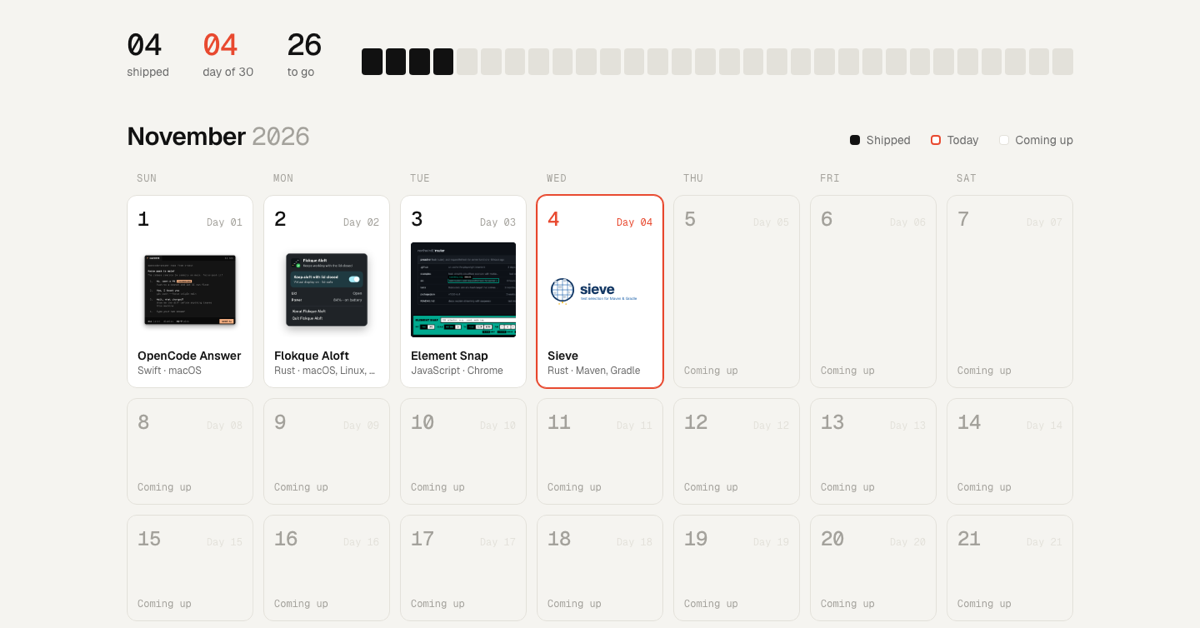
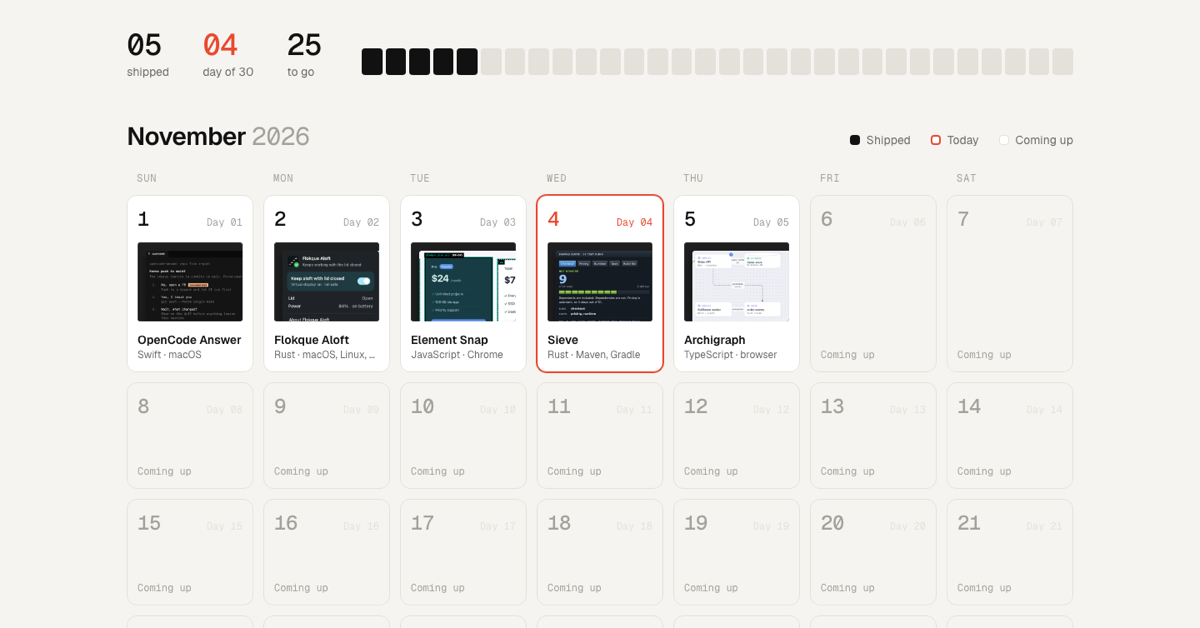
Dark mode with a spherical theme transition; branded thumbnails for every day

diff --git a/index.html b/index.html
@@ -12,6 +12,12 @@
   <meta property="og:image" content="https://preacherxp.github.io/30-days-of-tools/assets/og.png">
   <meta name="twitter:card" content="summary_large_image">
   <link rel="icon" href="favicon.svg" type="image/svg+xml">
+  <script>
+    try {
+      document.documentElement.dataset.theme = localStorage.getItem("theme")
+        || (matchMedia("(prefers-color-scheme: dark)").matches ? "dark" : "light");
+    } catch { document.documentElement.dataset.theme = "light"; }
+  </script>
   <link rel="preconnect" href="https://fonts.googleapis.com">
   <link rel="preconnect" href="https://fonts.gstatic.com" crossorigin>
   <link href="https://fonts.googleapis.com/css2?family=Geist:wght@400;500;600;700&family=Geist+Mono:wght@400;500;600&display=swap" rel="stylesheet">
@@ -24,8 +30,24 @@
       --faint: #a3a19b;
       --line: #e3e1da;
       --accent: #e8492f;
+      --hero-from: #000000;
+      --hero-to: #666666;
+      --lift: rgba(17, 17, 17, 0.25);
+      color-scheme: light;
       --ease: cubic-bezier(0.22, 1, 0.36, 1);
       --mono: "Geist Mono", ui-monospace, monospace;
+    }
+    [data-theme="dark"] {
+      --bg: #181818;
+      --card: #1f1f1f;
+      --ink: #f5f4f0;
+      --muted: #9b9b9b;
+      --faint: #6b6b6b;
+      --line: #313131;
+      --hero-from: #ffffff;
+      --hero-to: #9b9b9b;
+      --lift: rgba(0, 0, 0, 0.6);
+      color-scheme: dark;
     }
     * { box-sizing: border-box; }
     html { -webkit-text-size-adjust: 100%; }
@@ -65,12 +87,26 @@
     .gh:hover { border-color: var(--faint); transform: translateY(-1px); }
     .gh:active { transform: scale(0.98); }
     .gh svg { width: 16px; height: 16px; }
+    .actions { display: flex; gap: 8px; }
+    button.gh { font: inherit; font-weight: 600; color: inherit; cursor: pointer; }
+    .theme { position: relative; width: 38px; justify-content: center; padding: 8px; }
+    .theme svg { position: absolute; transition: transform 500ms var(--ease), opacity 300ms var(--ease); }
+    .theme .i-sun, [data-theme="dark"] .theme .i-moon { opacity: 0; transform: rotate(-90deg) scale(0.5); }
+    [data-theme="dark"] .theme .i-sun { opacity: 1; transform: none; }
+
+    /* Theme switch: the new theme grows out of the button as a sphere while the old page sinks back. */
+    ::view-transition-old(root), ::view-transition-new(root) {
+      animation: none; mix-blend-mode: normal;
+      transform-origin: var(--vx, 50%) var(--vy, 50%);
+    }
+    ::view-transition-old(root) { z-index: 1; }
+    ::view-transition-new(root) { z-index: 2; }
 
     .hero { padding: 64px 0 48px; }
     .hero h1 {
       margin: 0; max-width: 680px;
       font-size: 72px; line-height: 1; font-weight: 700; letter-spacing: -0.03em;
-      background: linear-gradient(90deg, #000000, #666666);
+      background: linear-gradient(90deg, var(--hero-from), var(--hero-to));
       -webkit-background-clip: text; background-clip: text; color: transparent;
       text-wrap: balance;
     }
@@ -141,7 +177,6 @@
     .date { font-size: 24px; line-height: 32px; font-weight: 500; letter-spacing: -0.02em; }
     .day { font-size: 12px; line-height: 16px; color: var(--faint); }
 
-    .shipped { min-height: 232px; }
     .upcoming { background: transparent; }
     .upcoming .date { color: var(--faint); }
     .upcoming .day { color: var(--line); }
@@ -159,11 +194,9 @@
       border-radius: 50%; background: var(--accent); vertical-align: 1px;
     }
 
-    .thumb { position: relative; flex: 1; min-height: 112px; margin: 0 12px; border-radius: 4px; overflow: hidden; background: #ffffff; }
-    .thumb img { position: absolute; inset: 0; width: 100%; height: 100%; transition: transform 500ms var(--ease); }
-    .thumb.contain img { object-fit: contain; }
-    .thumb.cover { background: #0d1117; }
-    .thumb.cover img { object-fit: cover; }
+    .thumb { position: relative; flex: none; aspect-ratio: 4 / 3; margin: 0 12px; border-radius: 4px; overflow: hidden; background: #1f1f1f; }
+    .thumb::after { content: ""; position: absolute; inset: 0; border-radius: inherit; box-shadow: inset 0 0 0 1px rgba(255, 255, 255, 0.08); pointer-events: none; }
+    .thumb img { position: absolute; inset: 0; width: 100%; height: 100%; object-fit: cover; transition: transform 500ms var(--ease); }
     .meta { padding: 12px; }
     .meta strong { display: block; font-size: 14px; line-height: 20px; font-weight: 600; }
     .meta span { display: block; font-size: 12px; line-height: 16px; color: var(--muted); white-space: nowrap; overflow: hidden; text-overflow: ellipsis; }
@@ -171,13 +204,13 @@
     .blurb {
       position: absolute; inset: auto 0 0 0; margin: 0;
       padding: 16px 12px 12px;
-      background: var(--ink); color: #ffffff;
+      background: var(--ink); color: var(--bg);
       font-size: 14px; line-height: 20px; text-wrap: pretty;
       transform: translateY(100%);
       transition: transform 500ms var(--ease);
     }
     .blurb::after { content: " ↗"; color: var(--accent); }
-    .shipped:hover, .shipped:focus-visible { border-color: var(--faint); box-shadow: 0 16px 32px -16px rgba(17, 17, 17, 0.25); }
+    .shipped:hover, .shipped:focus-visible { border-color: var(--faint); box-shadow: 0 16px 32px -16px var(--lift); }
     .shipped:hover .blurb, .shipped:focus-visible .blurb { transform: none; }
     .shipped:hover .thumb img { transform: scale(1.04); }
     .shipped:active { transform: scale(0.98); }
@@ -195,7 +228,6 @@
       .wrap { padding: 0 24px; }
       .hero h1 { font-size: 60px; }
       .stats { grid-template-columns: 1fr; }
-      .shipped { min-height: 200px; }
       .meta span { display: none; }
     }
     @media (max-width: 720px) {
@@ -215,7 +247,7 @@
       .upcoming .hint { margin: 0; padding: 8px 12px; }
       .shipped { display: grid; grid-template-columns: 112px 1fr; grid-template-rows: auto 1fr; }
       .shipped .cell-head { grid-column: 1 / -1; }
-      .shipped .thumb { margin: 0 0 12px 12px; min-height: 84px; }
+      .shipped .thumb { margin: 0 0 12px 12px; align-self: start; }
       .shipped .meta { padding: 0 12px 12px; }
       .meta span { display: block; white-space: normal; }
       .blurb { position: static; transform: none; background: none; color: var(--muted); padding: 4px 0 0; }
@@ -234,10 +266,13 @@
   <div class="wrap">
     <header class="top">
       <a class="handle" href="https://github.com/preacherxp"><b>preacherxp</b> / 30 days of tools</a>
+      <div class="actions">
+      <button class="gh theme" id="theme" type="button" aria-label="Switch to dark mode" aria-pressed="false"><svg class="i-sun" viewBox="0 0 24 24" fill="none" stroke="currentColor" stroke-width="2" stroke-linecap="round" aria-hidden="true"><circle cx="12" cy="12" r="4"/><path d="M12 2v2M12 20v2M4.93 4.93l1.41 1.41M17.66 17.66l1.41 1.41M2 12h2M20 12h2M4.93 19.07l1.41-1.41M17.66 6.34l1.41-1.41"/></svg><svg class="i-moon" viewBox="0 0 24 24" fill="none" stroke="currentColor" stroke-width="2" stroke-linecap="round" stroke-linejoin="round" aria-hidden="true"><path d="M20 14.5A8 8 0 0 1 9.5 4a8 8 0 1 0 10.5 10.5Z"/></svg></button>
       <a class="gh" href="https://github.com/preacherxp/30-days-of-tools">
         <svg viewBox="0 0 256 256" fill="currentColor" aria-hidden="true"><path d="M208.31 75.68A59.78 59.78 0 0 0 202.93 28a8 8 0 0 0-6.93-4a59.75 59.75 0 0 0-48 24h-24a59.75 59.75 0 0 0-48-24a8 8 0 0 0-6.93 4a59.78 59.78 0 0 0-5.38 47.68A58.14 58.14 0 0 0 56 104v8a56.06 56.06 0 0 0 48.44 55.47A39.8 39.8 0 0 0 96 192v8H72a24 24 0 0 1-24-24a40 40 0 0 0-40-40a8 8 0 0 0 0 16a24 24 0 0 1 24 24a40 40 0 0 0 40 40h24v16a8 8 0 0 0 16 0v-40a24 24 0 0 1 48 0v40a8 8 0 0 0 16 0v-40a39.8 39.8 0 0 0-8.44-24.53A56.06 56.06 0 0 0 216 112v-8a58.14 58.14 0 0 0-7.69-28.32ZM200 112a40 40 0 0 1-40 40h-48a40 40 0 0 1-40-40v-8a41.74 41.74 0 0 1 6.9-22.48a8 8 0 0 0 1.1-7.69a43.81 43.81 0 0 1 .79-33.58a43.88 43.88 0 0 1 32.32 20.06a8 8 0 0 0 6.71 3.69h32.35a8 8 0 0 0 6.74-3.69a43.87 43.87 0 0 1 32.32-20.06a43.81 43.81 0 0 1 .77 33.58a8.09 8.09 0 0 0 1 7.65a41.72 41.72 0 0 1 7 22.52Z"/></svg>
         Source
       </a>
+      </div>
     </header>
 
     <main>
@@ -316,7 +351,7 @@
       let cell;
       if (tool) {
         cell = el("a", "cell shipped", head +
-          `<div class="thumb ${tool.fit}"><img src="${tool.image}" alt="" loading="lazy"${tool.position ? ` style="object-position: ${tool.position}"` : ""}></div>` +
+          `<div class="thumb"><img src="${tool.image}" alt="" loading="lazy"></div>` +
           `<div class="meta"><strong>${tool.name}</strong><span>${tool.stack}</span><p class="blurb">${tool.blurb}</p></div>`);
         cell.href = `https://github.com/${tool.repo}`;
         cell.setAttribute("aria-label", `Day ${d}, ${label}: ${tool.name}. ${tool.blurb}`);
@@ -347,6 +382,41 @@
     document.getElementById("n-shipped").textContent = pad(shipped.size);
     document.getElementById("n-day").textContent = pad(dayOf);
     document.getElementById("n-left").textContent = pad(DAYS - shipped.size);
+
+    const root = document.documentElement;
+    const toggle = document.getElementById("theme");
+    const still = matchMedia("(prefers-reduced-motion: reduce)");
+    const label = () => {
+      const dark = root.dataset.theme === "dark";
+      toggle.setAttribute("aria-pressed", String(dark));
+      toggle.setAttribute("aria-label", dark ? "Switch to light mode" : "Switch to dark mode");
+    };
+    label();
+
+    toggle.addEventListener("click", () => {
+      const next = root.dataset.theme === "dark" ? "light" : "dark";
+      const swap = () => { root.dataset.theme = next; label(); };
+      try { localStorage.setItem("theme", next); } catch {}
+      if (!document.startViewTransition || still.matches) return swap();
+
+      const box = toggle.getBoundingClientRect();
+      const x = box.left + box.width / 2, y = box.top + box.height / 2;
+      const r = Math.hypot(Math.max(x, innerWidth - x), Math.max(y, innerHeight - y));
+      root.style.setProperty("--vx", `${x}px`);
+      root.style.setProperty("--vy", `${y}px`);
+
+      document.startViewTransition(swap).ready.then(() => {
+        const timing = { duration: 1000, easing: "cubic-bezier(0.7, 0, 0.2, 1)" }; // slow start so the sphere reads, then settles
+        root.animate({
+          clipPath: [`circle(0px at ${x}px ${y}px)`, `circle(${r}px at ${x}px ${y}px)`],
+          transform: ["scale(1.12)", "scale(1)"],
+        }, { ...timing, pseudoElement: "::view-transition-new(root)" });
+        root.animate({
+          transform: ["scale(1)", "scale(0.92)"],
+          filter: ["brightness(1)", "brightness(0.55)"],
+        }, { ...timing, pseudoElement: "::view-transition-old(root)" });
+      });
+    });
   </script>
 </body>
 </html>

diff --git a/tools.js b/tools.js
@@ -1,6 +1,5 @@
 // One entry per shipped day. Add the next tool here and push; the calendar fills itself in.
-// fit: "contain" for screenshots on a white backdrop, "cover" for full bleed images.
-// position: optional object-position for cover images, centred by default.
+// image: a 4:3 thumbnail made by thumbs/make.sh from an entry in thumbs/thumbs.json.
 window.TOOLS = [
   {
     day: 1,
@@ -8,8 +7,7 @@ window.TOOLS = [
     repo: "preacherxp/opencode-answer",
     blurb: "A macOS menu bar app for answering OpenCode's questions without switching to the terminal.",
     stack: "Swift · macOS",
-    image: "assets/opencode-answer.png",
-    fit: "contain",
+    image: "assets/thumbs/opencode-answer.png",
   },
   {
     day: 2,
@@ -17,8 +15,7 @@ window.TOOLS = [
     repo: "preacherxp/flokque-aloft",
     blurb: "Keeps your computer working with the lid closed, so agents and builds carry on in your bag.",
     stack: "Rust · macOS, Linux, Windows",
-    image: "assets/flokque-aloft.png",
-    fit: "contain",
+    image: "assets/thumbs/flokque-aloft.png",
   },
   {
     day: 3,
@@ -26,9 +23,7 @@ window.TOOLS = [
     repo: "preacherxp/element-snap",
     blurb: "A Chrome extension that saves any element on a web page as a pixel exact image.",
     stack: "JavaScript · Chrome",
-    image: "assets/element-snap.png",
-    fit: "cover",
-    position: "left center",
+    image: "assets/thumbs/element-snap.png",
   },
   {
     day: 4,
@@ -36,8 +31,7 @@ window.TOOLS = [
     repo: "preacherxp/sieve",
     blurb: "Runs only the JVM tests a change can affect. When unsure, it runs them all.",
     stack: "Rust · Maven, Gradle",
-    image: "assets/sieve.svg",
-    fit: "contain",
+    image: "assets/thumbs/sieve.png",
   },
   {
     day: 5,
@@ -45,7 +39,6 @@ window.TOOLS = [
     repo: "preacherxp/archigraph",
     blurb: "An architecture diagram editor that ships as one HTML file: draw, comment, send it, merge the copies.",
     stack: "TypeScript · browser",
-    image: "assets/archigraph.png",
-    fit: "cover",
+    image: "assets/thumbs/archigraph.png",
   },
 ];

diff --git a/404.html b/404.html
@@ -6,18 +6,26 @@
   <title>Page not found · 30 tools in 30 days</title>
   <link rel="icon" href="/30-days-of-tools/favicon.svg" type="image/svg+xml">
   <link href="https://fonts.googleapis.com/css2?family=Geist:wght@400;600;700&family=Geist+Mono:wght@500&display=swap" rel="stylesheet">
+  <script>
+    try {
+      document.documentElement.dataset.theme = localStorage.getItem("theme")
+        || (matchMedia("(prefers-color-scheme: dark)").matches ? "dark" : "light");
+    } catch {}
+  </script>
   <style>
+    :root { --bg: #f5f4f0; --ink: #111111; --muted: #6b6b6b; color-scheme: light; }
+    [data-theme="dark"] { --bg: #181818; --ink: #f5f4f0; --muted: #9b9b9b; color-scheme: dark; }
     body {
       margin: 0; min-height: 100vh; display: grid; place-items: center;
-      background: #f5f4f0; color: #111111; font: 400 16px/24px "Geist", system-ui, sans-serif;
+      background: var(--bg); color: var(--ink); font: 400 16px/24px "Geist", system-ui, sans-serif;
     }
     main { padding: 32px; text-align: center; }
     b { display: block; font-family: "Geist Mono", monospace; font-size: 72px; line-height: 1; font-weight: 500; color: #e8492f; }
     h1 { margin: 24px 0 8px; font-size: 24px; line-height: 32px; font-weight: 600; }
-    p { margin: 0 0 24px; color: #6b6b6b; }
+    p { margin: 0 0 24px; color: var(--muted); }
     a {
       display: inline-block; padding: 8px 12px; border-radius: 8px;
-      background: #111111; color: #ffffff; font-weight: 600; text-decoration: none;
+      background: var(--ink); color: var(--bg); font-weight: 600; text-decoration: none;
     }
     a:focus-visible { outline: 2px solid #e8492f; outline-offset: 2px; }
   </style>

diff --git a/thumbs/template.html b/thumbs/template.html
@@ -1,0 +1,40 @@
+<!doctype html>
+<!-- Calendar thumbnail, 800×600. Rendered by make.sh; the query string says which
+     image to frame and which part of it: ?src=src/x.png&x=80&y=80&w=1032 (source pixels).
+     The crop's top left corner lands on the frame's corner and is scaled so w fills the frame. -->
+<html>
+<head>
+  <meta charset="utf-8">
+  <style>
+    html, body { margin: 0; width: 800px; height: 600px; overflow: hidden; }
+    body {
+      position: relative;
+      background-color: #1f1f1f;
+      background-image: radial-gradient(#313131 1.5px, transparent 1.5px);
+      background-size: 24px 24px;
+      background-position: 12px 12px;
+    }
+    .frame {
+      position: absolute; left: 64px; top: 64px; width: 800px; height: 600px;
+      border-radius: 16px; overflow: hidden;
+      background: #000000;
+      box-shadow: 0 0 0 1px rgba(255, 255, 255, 0.14), 0 32px 64px rgba(0, 0, 0, 0.55);
+    }
+    .frame img { position: absolute; left: 0; top: 0; transform-origin: 0 0; }
+  </style>
+</head>
+<body>
+  <div class="frame"><img id="shot" alt=""></div>
+  <script>
+    const VISIBLE = 736; // 800 minus the 64px inset; the frame runs off the right and bottom edges
+    const q = new URLSearchParams(location.search);
+    const img = document.getElementById("shot");
+    img.onload = () => {
+      const s = VISIBLE / Number(q.get("w"));
+      img.style.width = `${img.naturalWidth * s}px`;
+      img.style.transform = `translate(${-q.get("x") * s}px, ${-q.get("y") * s}px)`;
+    };
+    img.src = q.get("src");
+  </script>
+</body>
+</html>

diff --git a/README.md b/README.md
@@ -18,8 +18,16 @@ A tool building challenge: one new open source tool every day of November 2026, 
 
 ## Adding a day
 
-1. Add an entry to [`tools.js`](tools.js) and drop its image in `assets/`
-2. Add a row to the table above
-3. Push to `main`; GitHub Pages redeploys the site
+1. Put a full resolution screenshot of the tool in `thumbs/src/<slug>.png`
+2. Add `{ "slug", "src", "x", "y", "w" }` to [`thumbs/thumbs.json`](thumbs/thumbs.json): the crop's top left corner and width in source pixels
+3. Run `thumbs/make.sh <slug>` and check `assets/thumbs/<slug>.png`
+4. Add an entry to [`tools.js`](tools.js) and a row to the table above
+5. Push to `main`; GitHub Pages redeploys the site
 
 The page is plain HTML with no build step. Open `index.html` in a browser to preview it.
+
+## Thumbnails
+
+Every day uses the same 800×600 tile so the calendar reads as one set: a flat `#1F1F1F` ground with a `#313131` dot grid, and a tight crop of the tool's real UI in a window frame 64px from the top and left, running off the right and bottom edges. [`thumbs/template.html`](thumbs/template.html) draws it; [`thumbs/make.sh`](thumbs/make.sh) renders it with headless Chrome (set `CHROME=` to use another binary; needs `jq`).
+
+Crop to the one part that says what the tool does, tight enough to read at 130px wide: the panel, the highlighted element, the result. Never a whole window or a logo.
